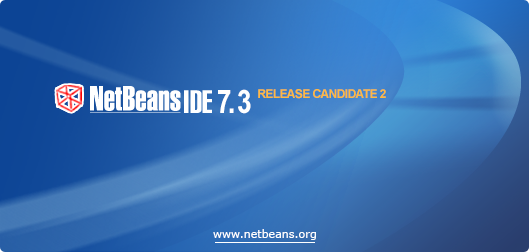
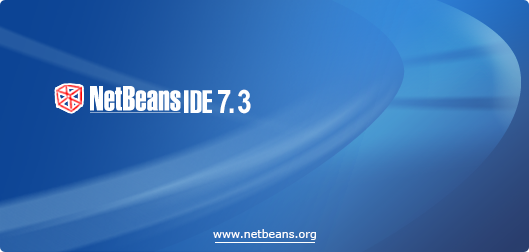
7.3 final branding.

Changed region(s): [[0.4839, 0.3333, 0.7259, 0.3889]]

diff --git a/installer/infra/build/web/start.html b/installer/infra/build/web/start.html
@@ -180,12 +180,6 @@
                                                     replace("{1}",LICENSE_FILES_LINK).
                                                     replace("{2}",LICENSE_FILES_LINK))
                                             </script>
-                                            <br><br>
-                                                <p>
-                                                    <script type="text/javascript">
-                                                            message(LEGAL_WARNING_MESSAGE)
-                                                    </script>
-                                                </p>
                                         </div>
                                     </div>
 

diff --git a/installer/infra/build/web/index.html b/installer/infra/build/web/index.html
@@ -278,12 +278,6 @@
                                         replace("{1}",LICENSE_FILES_LINK).
                                         replace("{2}",LICENSE_FILES_LINK))
                                 </script>
-                                <br><br>
-                                    <p>
-                                        <script type="text/javascript">
-                                                message(LEGAL_WARNING_MESSAGE)
-                                        </script>
-                                    </p>
                             </div>
                         </div>
 

diff --git a/installer/infra/build/web/js/build_info.js b/installer/infra/build/web/js/build_info.js
@@ -64,8 +64,8 @@ build_info.BOUNCER_URL = "http://services.netbeans.org/bouncer/index.php";
 build_info.USE_HTML_ZIP_LISTING = 1;
 
 build_info.add_download_tabs = function() {
-	add_download_tab("7.2.1", "http://netbeans.org/downloads/");
-        add_download_tab("7.3 RC2");
+	add_download_tab("7.2.1", "http://netbeans.org/downloads/7.2.1");
+        add_download_tab("7.3");
 	add_download_tab(DEVELOPMENT_TITLE ,DEVELOPMENT_BUILDS_LINK);
 	add_download_tab(ARCHIVE_TITLE,ARCHIVE_BUILDS_LINK);
 }
